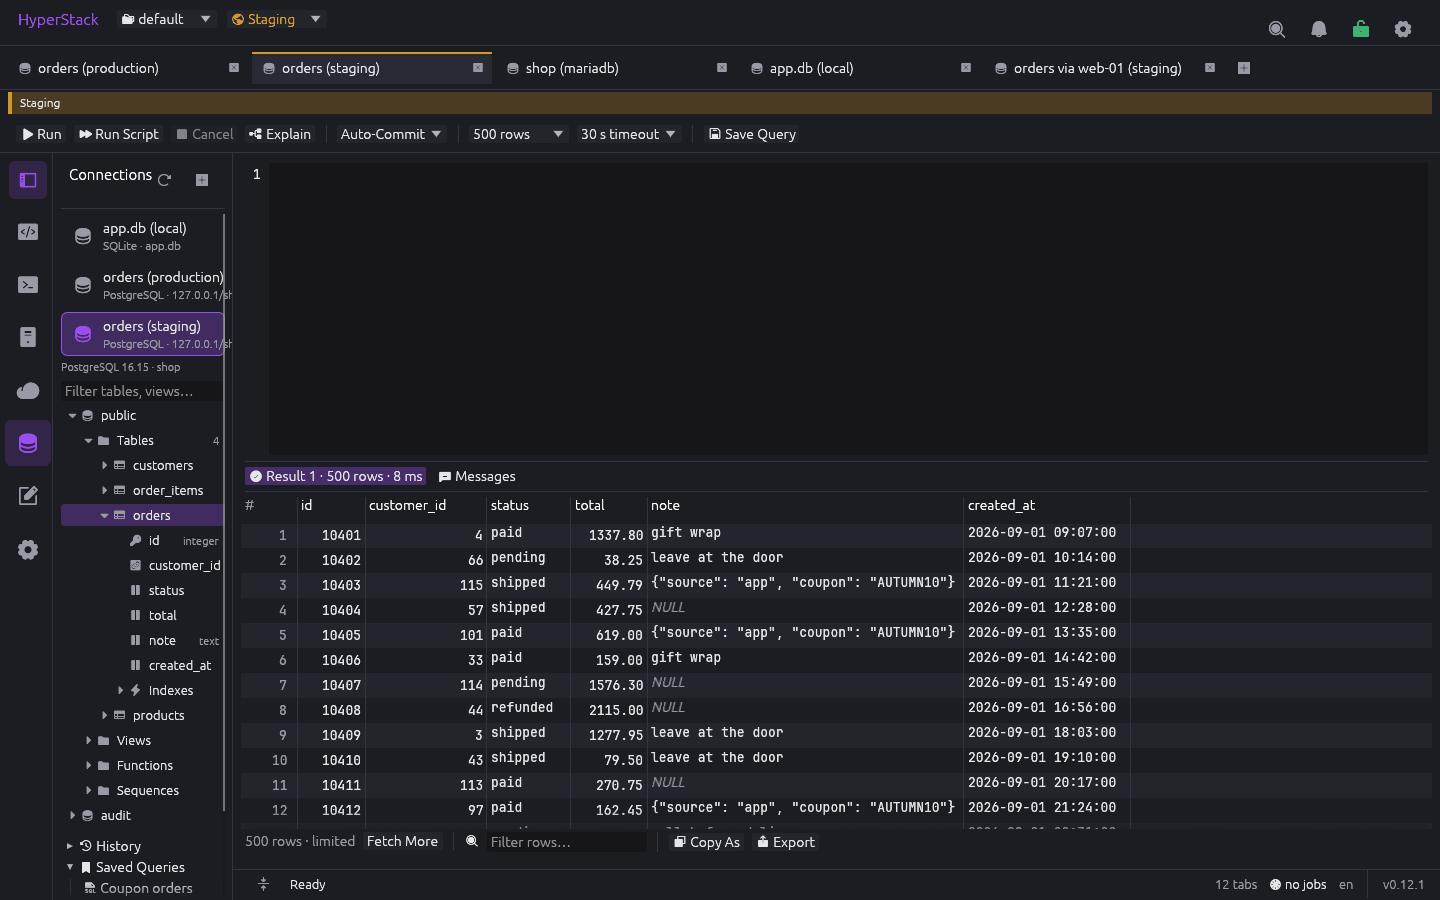
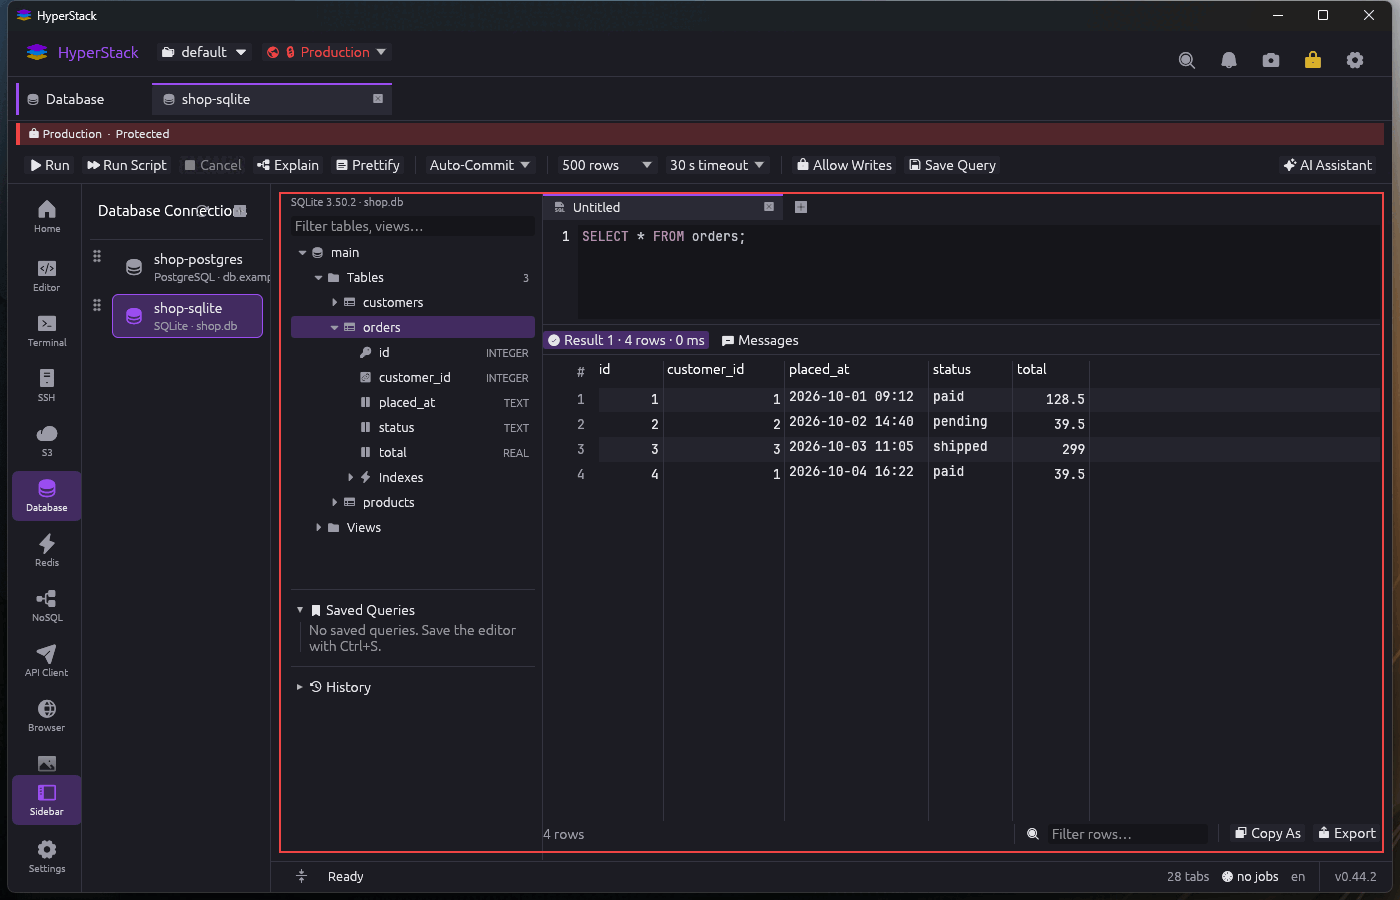
docs: refresh the SSH and SQLite screenshots and the capture guide
The host-key, dual-pane and Follow Shell Folder shots now use the in-repo\ndevsshd, and the schema, query and cell-viewer shots use the SQLite shop.db\nso they no longer need a PostgreSQL server. The gap-filling images from the\nBrowser, Devtools, Redis, NoSQL, Scratchpad and Git passes are included, and\nthe walkthrough GIF is rebuilt from the current set.

Changed region(s): [[0.0, 0.0, 1.0, 1.0], [0.7371, 0.4356, 0.7679, 0.4667]]

diff --git a/README.md b/README.md
@@ -71,18 +71,18 @@ the fixtures behind them.
 | [Shell and workspaces](#shell-and-workspaces) | Home, launcher, palette, tabs, split, dock, workspaces, environments |
 | [Vault and connections](#vault-and-connections) | First-run vault, unlock, profiles and secrets |
 | [Editor](#editor) | Projects, files, Markdown and Mermaid, LSP, debugger, AI assistant |
-| [Git](#git) | Tree, Source Control, history, conflict editor, interactive rebase |
+| [Git](#git) | Tree, Source Control, history, tags, prefixes, conflict editor, interactive rebase |
 | [Terminal](#terminal) | Shells, search, links |
 | [SSH and SFTP](#ssh-and-sftp) | Host keys, dual pane, tunnels, remote editing |
 | [S3](#s3-and-s3-compatible-storage) | Buckets, profiles, presigned URLs, guards |
 | [SQL databases](#sql-databases-postgresql-mysql--mariadb-sqlite) | Browser, completion, results, transactions, guards |
-| [Redis](#redis) | Key tree, type viewers, console |
-| [NoSQL](#nosql-mongodb-and-couchdb) | Containers, find, documents |
+| [Redis](#redis) | Key tree, type viewers, console, info |
+| [NoSQL](#nosql-mongodb-and-couchdb) | Containers, find, aggregate, indexes, documents |
 | [API client](#api-client) | Requests, scripts, assistant |
-| [Devtools](#devtools) | JWT, hashes, Jasypt, PKI, regex, diff |
+| [Devtools](#devtools) | JWT, hashes, Jasypt, PKI, regex, diff, Base64, URL, YAML, generators, cron, units |
 | [Graphics](#graphics) | Operations, crop |
-| [Scratchpad and assistant](#scratchpad-and-assistant) | Notes, dictation |
-| [Browser](#browser) | WebView2 pages |
+| [Scratchpad and assistant](#scratchpad-and-assistant) | Notes, pinning, dictation |
+| [Browser](#browser) | WebView2 pages, favourites, passwords |
 | [Settings](#settings) | Every page |
 
 ### Shell and workspaces
@@ -148,6 +148,8 @@ directly after the permanent one.
 | **History** (Ctrl+Shift+H) — commits with branch and tag chips; each commit's message, files and diffs | **Commit, push, pull, stash, branches, tags** — stage and unstage from the list, discard with a question, commit (and push) with a Conventional Commit prefix, fetch/pull/push as jobs, stashes, branches, remotes and lightweight or annotated tags; a protected remote asks before a push and never gets a force |
 | ![Conflict editor](docs/screenshots/editor-git-conflict.png) | ![Interactive rebase](docs/screenshots/editor-git-rebase.png) |
 | **Conflict editor** — an unmerged file opens block by block: Ours and Theirs under their marker labels, then Ours / Theirs / Both / a typed result per block; **Save and Mark Resolved** writes the file without markers and stages it | **Interactive Rebase** — commits oldest first with Pick / Squash / Fixup / Drop and move arrows; merge, rebase and cherry-pick offer Continue / Skip / Abort when Git pauses |
+| ![Tags](docs/screenshots/editor-git-tags.png) | ![Commit prefix](docs/screenshots/editor-git-prefix.png) |
+| **Tags** - lightweight or annotated, created from their own menu and pushed or deleted per tag | **Commit prefixes** - pick a Conventional Commit type; it is inserted once with its meaning, and Clear Prefix removes it |
 
 ### Terminal
 
@@ -189,7 +191,7 @@ directly after the permanent one.
 | | |
 |---|---|
 | ![Schema browser and rows](docs/screenshots/db-browse.png) | ![Completion](docs/screenshots/db-completion.png) |
-| **Schema browser** — schemas, tables, views, functions, columns with PK/FK/NOT NULL, indexes; double-click a table for its rows | **Completion** from the schema cache — tables after FROM/JOIN, columns after an alias |
+| **Schema browser** — schemas, tables, views and columns with types, indexes (functions and PK/FK/NOT NULL badges where the engine reports them); double-click a table for its rows | **Completion** from the schema cache — tables after FROM/JOIN, columns after an alias |
 | ![Query and result grid](docs/screenshots/db-query.png) | ![Script with an error](docs/screenshots/db-script-error.png) |
 | **Result grid** — streamed rows, NULL shown as NULL, numbers right-aligned, sort, filter, Copy As, Export | **Scripts** — one result tab per statement; the failing one is selected and the server's error position underlined |
 | ![Refused on a protected environment](docs/screenshots/db-refused.png) | ![Guarded statement](docs/screenshots/db-guard.png) |
@@ -205,6 +207,8 @@ directly after the permanent one.
 |---|---|
 | ![Redis key tree and hash viewer](docs/screenshots/redis-browser.png) | |
 | **Keys** — SCAN-backed tree grouped by prefix with each key's type, a filter, and a type-aware viewer: hashes, strings, lists, sets, sorted sets and streams, with TTL and inline editing behind a confirmation. **Console** runs guarded commands; **Info** shows the server. Protected environments default to read-only | |
+| ![Console](docs/screenshots/redis-console.png) | ![Info](docs/screenshots/redis-info.png) |
+| **Console** - raw commands with history and completion, numbered replies and guards on a protected environment | **Info** - server version, build, process, listeners and keyspace |
 
 ### NoSQL (MongoDB and CouchDB)
 
@@ -212,6 +216,8 @@ directly after the permanent one.
 |---|---|
 | ![MongoDB find view](docs/screenshots/nosql-browser.png) | |
 | **Containers** — databases and collections (MongoDB) or databases and document counts (CouchDB); a collection opens in **Find** with filter, projection and sort, the documents as a table and a JSON editor with delete/update guards; **Aggregate** and **Indexes** are beside it | |
+| ![Aggregate](docs/screenshots/nosql-aggregate.png) | |
+| **Aggregate** - a JSON pipeline with a page limit, previewed as a table or JSON; **Indexes** lists each collection's indexes | |
 
 ### API client
 
@@ -236,13 +242,15 @@ globals. A non-GET request to a protected environment asks first.
 | **Jasypt** — `PBEWithMD5AndDES` and `PBEWITHHMACSHA512ANDAES_256` property encryption with jasypt's salt/IV layout and `ENC(…)`, plus the legacy DES/AES/MD5 DataEncryptor | **PKI messages** — sign with RSA and encrypt with AES-256-GCM under a shared key derived from a device id, then decrypt and verify, for both request and response flows |
 | ![Regex Tester](docs/screenshots/devtools-regex.png) | ![Text Diff](docs/screenshots/devtools-diff.png) |
 | **Regex Tester** — a pattern with flags, every match with its groups and positions, and the text with matches marked; the same engine as the app's filters | **Text Diff** — two texts side by side, changed lines marked, whitespace-insensitive mode, copy as a unified diff |
+| ![Base64](docs/screenshots/devtools-base64.png) | ![URL](docs/screenshots/devtools-url.png) |
+| **Base64** - auto-detected text, pictures and documents, data URIs and Basic auth headers; the decoded text with a hex dump | **URL** - Component, Full URL or Form encoding, a parts table and strict mode |
+| ![YAML](docs/screenshots/devtools-yaml.png) | ![Generators](docs/screenshots/devtools-generators.png) |
+| **YAML** - check with line-numbered problems and convert to and from Java `.properties` | **Generators** - UUID v4/v7/Nil, numbers, passwords and passphrases with a seed and entropy |
+| ![Cron](docs/screenshots/devtools-cron.png) | ![Unit conversion](docs/screenshots/devtools-units.png) |
+| **Cron** - build a schedule and read it in Unix, Spring and Quartz dialects, with an expression checker | **Units** - time, epochs, number bases, data sizes, durations and bandwidth, with every unit listed |
 
-Also **Base64** (auto-detect, picture/text/document preview, data URI,
-Basic auth header), **URL** (percent-encode and decode a component, a whole
-URL or form data, with a table of the URL's parts), **YAML/TOML/XML**
-(check, format, convert), **Firebase tokens**, **Generators**, **Cron**,
-**Unit Conversion** and **PKI messages**. Keys typed into a utility are
-never saved.
+Also **TOML** and **XML** (check, format, convert) and **Firebase tokens**;
+keys typed into a utility are never saved.
 
 ### Graphics
 
@@ -259,6 +267,8 @@ never saved.
 |---|---|
 | ![Scratchpad](docs/screenshots/scratchpad.png) | ![Scratchpad AI assistant](docs/screenshots/scratchpad-ai.png) |
 | **Notes** — a collection of Markdown notes per workspace: the sidebar lists them newest first with pinned notes on top, one tab per note, source and preview side by side, saved 1.5 s after typing stops | **Assistant** — drafts checklists, tables, Mermaid diagrams and command fences; each block inserts at the cursor |
+| ![Pinned note](docs/screenshots/scratchpad-pin.png) | |
+| **Pinned notes** - right-click a note to pin it above the rest; source and preview share the pane and save a moment after typing stops | |
 | ![Dictation into an assistant](docs/screenshots/ai-dictation.png) | |
 | **Dictate to any assistant** — the microphone beside Send runs the operating system's own speech recognition (offline); phrases are typed into the box, a stop keeps the phrase in flight, the session ends on its own after a set time, and nothing is sent until you press Send | |
 
@@ -268,6 +278,8 @@ never saved.
 |---|---|
 | ![Browser](docs/screenshots/browser.png) | |
 | **Browser** — WebView2 pages in multi-row tabs: address bar with search fallback, back/forward/reload/home, per-page ad and tracker blocking, JavaScript switch, forced dark rendering, zoom, Inspect, Print; pages restored per workspace; Shift+click a terminal link to open it here (Windows) | |
+| ![Favourites](docs/screenshots/browser-favourites.png) | ![Passwords](docs/screenshots/browser-passwords.png) |
+| **Favourites** - a per-workspace tree with folders and a bar under the address bar, Chrome's click rules; the star adds the open page | **Passwords** - per-workspace logins; username, password, passkey and API key live in the vault, and Fill in Password is in the toolbar |
 
 ### Settings
 

diff --git a/docs/screenshots/README.md b/docs/screenshots/README.md
@@ -1,49 +1,28 @@
 # Screenshots
 
-Images used by the top-level [README](../../README.md). They show HyperStack
-0.11.0 as built from this repository, not mock-ups.
+Images used by the top-level [README](../../README.md). They show the build from this
+repository, not mock-ups; the set was last refreshed on Windows 11 for 0.45.x.
 
 ## How they were made
 
-- Built with `cargo build --release -p hyperstack` on Linux x64 and run under
-  Xvfb at 1440×900 (Mesa software rendering), driven with `xdotool`.
-- Fresh portable data folder (`HyperStackData/` beside the executable); the
-  vault, the SSH connection profile and the folder sync were created and
-  exercised through the UI. The three environments (Development, Staging,
-  Production) and a second, illustrative SSH profile (`db-01 (production)`)
-  were written as workspace files first.
-- The SSH/SFTP shots use a local OpenSSH server (`127.0.0.1:2200`, user
-  `deploy`) so the shell and SFTP pane are real; the shell prompt sets the
-  xterm title, which is what **Follow Shell Folder** reads.
-- The S3 shots use moto's S3 server (`moto_server -p 5055`, keys
-  `testing`/`testing`) seeded with a few buckets; the profiles were imported
-  through the tool's "Import AWS Profiles" from a `~/.aws` pair pointing at it.
-  The tunnel shot forwards a local port through the same OpenSSH server to a
-  small HTTP service.
-- The database shots and `database-walkthrough.gif` (12 fps x11grab → 10 fps,
-  1200 px GIF) use a local PostgreSQL 16 and MariaDB 10.11 seeded with a small
-  shop schema (customers, products, 600 orders, order items, an `audit`
-  schema), and a SQLite copy of it. The PostgreSQL and MariaDB profiles were
-  created through Settings → Connections by pasting a URL (the password went
-  into the vault); "orders (production)" points at the same database under the
-  protected Production environment, and "orders via web-01" tunnels through
-  the local OpenSSH server.
-- `hyperstack-demo.gif` is an `ffmpeg x11grab` recording of one scripted run
-  (vault unlock → launcher → terminal with search and a Ctrl+clicked
-  `path:line` → editor at that line → Markdown preview with a Mermaid diagram
-  → SSH/SFTP and a new tunnel → S3 bucket browsing and a presigned URL →
-  Production environment), converted at 10 fps, 1200 px wide with a generated
-  palette.
-- PNGs are quantised to 256 colours to keep the repository small.
+Captured from the debug build with `scripts/gui-smoke.ps1` (`start`, `click`,
+`dclick`, `drag`, `keys`, `shot`, `stop`). The app runs against a scratch
+`--data-dir`; the window sits at 0,0 and is sized 1400x900, and the capture is
+`GetWindowRect`, so the invisible 8 px border is part of each PNG. HyperStack
+Dark, activity rail labels on. Clicks and keys go through `mouse_event` and
+`SendKeys` at window-relative coordinates.
 
-## AI assistant imagery
+PNGs are quantised to 256 colours (`magick <in> -colors 256 -depth 8 <out>`)
+to keep the repository small. `hyperstack-demo.gif` is a slideshow assembled
+from the current set with
+`magick -delay 150 -loop 0 <frames> -resize 1200x -colors 256 -layers Optimize hyperstack-demo.gif`,
+one screen every 1.5 s.
 
-The AI assistant now appears in the terminal, SSH, SQL and S3 toolbars. The
-existing screenshots and GIFs have **not** yet been retaken for this UI: doing
-so requires an interactive desktop/Xvfb capture session with the relevant
-connection and test-provider setup. When recaptured, add dedicated shots for
-terminal, SSH, SQL and S3 assistant panels, plus an updated walkthrough GIF;
-retain current filenames and README links for existing shots.
+The assistant is covered by `settings-ai.png`, `editor-ai-review.png`,
+`editor-ai-cascade.png`, `editor-ai-models.png`, `api-client-ai.png`,
+`scratchpad-ai.png` and `ai-dictation.png`. The per-tool review-only panels
+(terminal, SSH, SQL, S3, Redis, NoSQL) use the same layout; no separate
+captures are kept for each.
 
 ## 2026-10-15 set: Home, settings pages, Devtools, API client, Graphics, Browser
 
@@ -119,7 +98,12 @@ screen every 1.5 s.
 Fixtures: the vault's master password is `TestMaster1` (scratch only);
 Redis is started in WSL and the distro held open with a sleeping `wsl`
 process (it stops when the last command exits); `docker start hs-mongo
-hs-couch` after that hold, or the containers stop with the distro.
+hs-couch` after that hold, or the containers stop with the distro. SSH uses
+the in-repo test server (`cargo run -p hs-ssh --features testserver
+--example devsshd -- 2222`, user `dev`/`dev`, files under `/home/dev`), not
+a system sshd. The database shots use a SQLite file
+(`D:\Temp\opencode\shop.db`) with customers, products and orders, opened
+through a seeded `shop-sqlite` profile; no server is required.
 
 Added with the Terminal CLI list (2026-10-19): `settings-terminal-list.png`
 (the Terminal page's Shells and CLI groups with Add CLI and PATH suggestions
@@ -129,3 +113,24 @@ profile, and the tab it opened running `cmd /k echo Hello from CLI`). The
 profile was added through the Settings page; the suggestion "Claude Code" was
 added disabled and moved above it to check that the TOML order follows the
 page.
+
+Second gap-filling pass, 2026-10-19: `browser-favourites.png` (DuckDuckGo
+added from the toolbar star, shown in the sidebar and the bar under the
+address) and `browser-passwords.png` (a "Shop Staging" login with its
+username and vault-stored password); `devtools-base64.png`,
+`devtools-url.png`, `devtools-yaml.png`, `devtools-generators.png`,
+`devtools-cron.png` and `devtools-units.png`; `redis-console.png` and
+`redis-info.png`; `nosql-aggregate.png` (the pipeline editor on shop.orders);
+`scratchpad-pin.png` (a "Release checklist" note pinned to the top); and
+`editor-git-tags.png` / `editor-git-prefix.png` (a v1.0-demo annotated tag and
+the Conventional Commit prefix menu). The walkthrough GIF is rebuilt from
+this set.
+
+Third pass, 2026-10-19: `ssh-host-key.png`, `ssh-sftp.png` and
+`ssh-follow-shell-folder.png` against `devsshd` (host key prompt for
+127.0.0.1, dual pane at /home/dev, and `cd projects` followed by the file
+pane), plus `db-browse.png`, `db-query.png` and `db-cell-viewer.png` against
+the SQLite `shop.db` (schema tree with columns and indexes, a JOIN with
+results, and a pretty-printed JSON cell). The SQL shots no longer depend on
+a PostgreSQL server. `scripts/gui-smoke.ps1` gained `dclick` and `drag` for
+these captures (a table's rows, the editor/result splitter).
